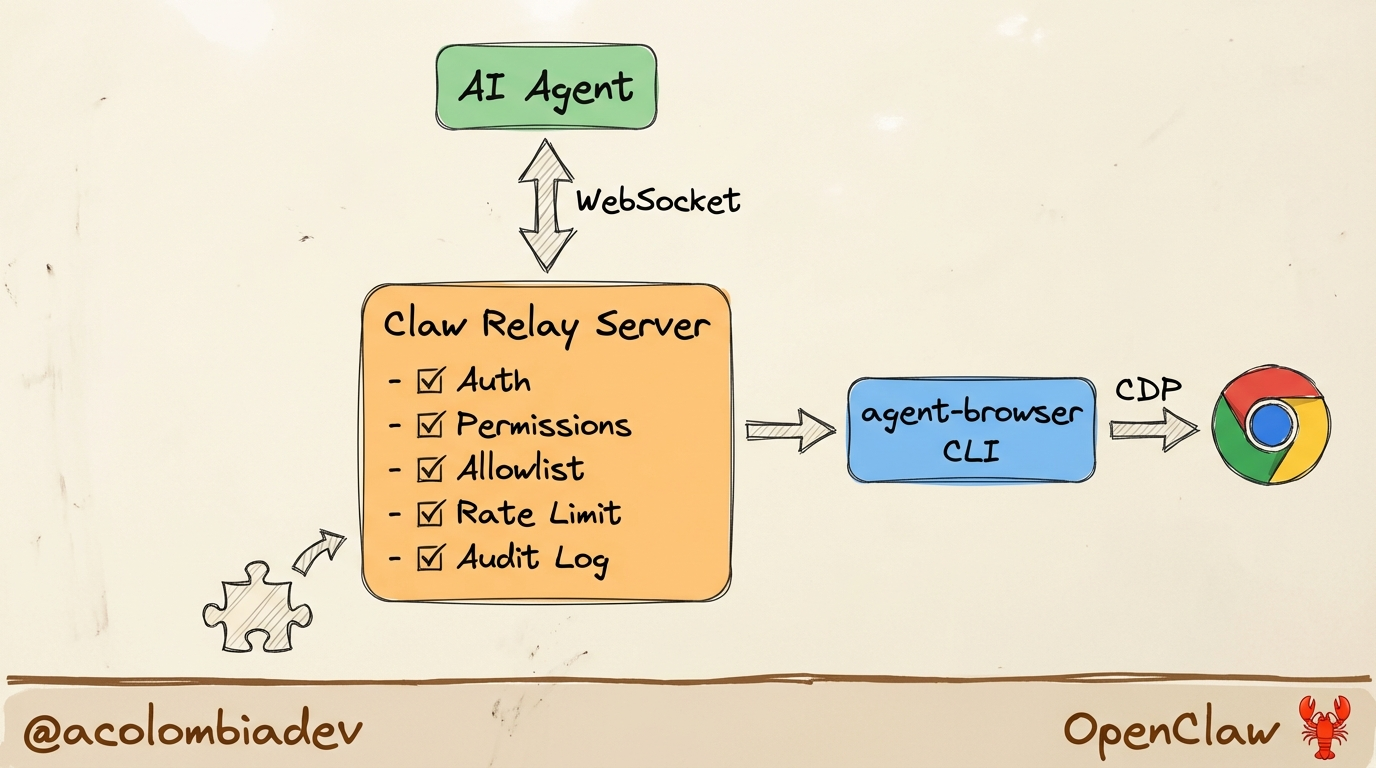
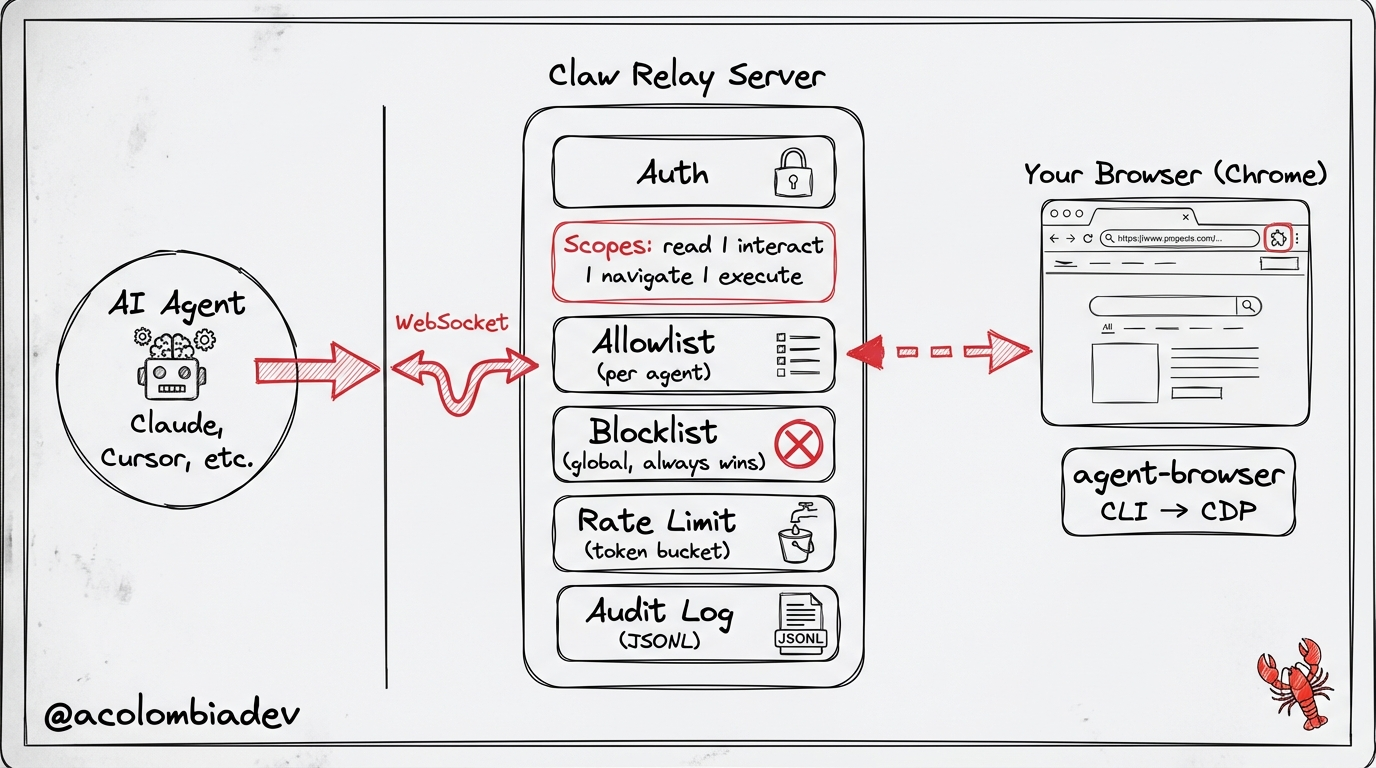
docs: add hand-drawn architecture diagram

diff --git a/README.md b/README.md
@@ -31,6 +31,12 @@ The blocklist always wins over allowlists. If `*.bank.com` is blocked, no agent 
 
 ## How It Works
 
+![Architecture](docs/architecture.png)
+
+```
+(The ASCII diagram below can stay as fallback / alternative)
+```
+
 ```
 Agent ──WebSocket──→ Claw Relay ──CLI──→ agent-browser ──CDP──→ Your Chrome
                       │